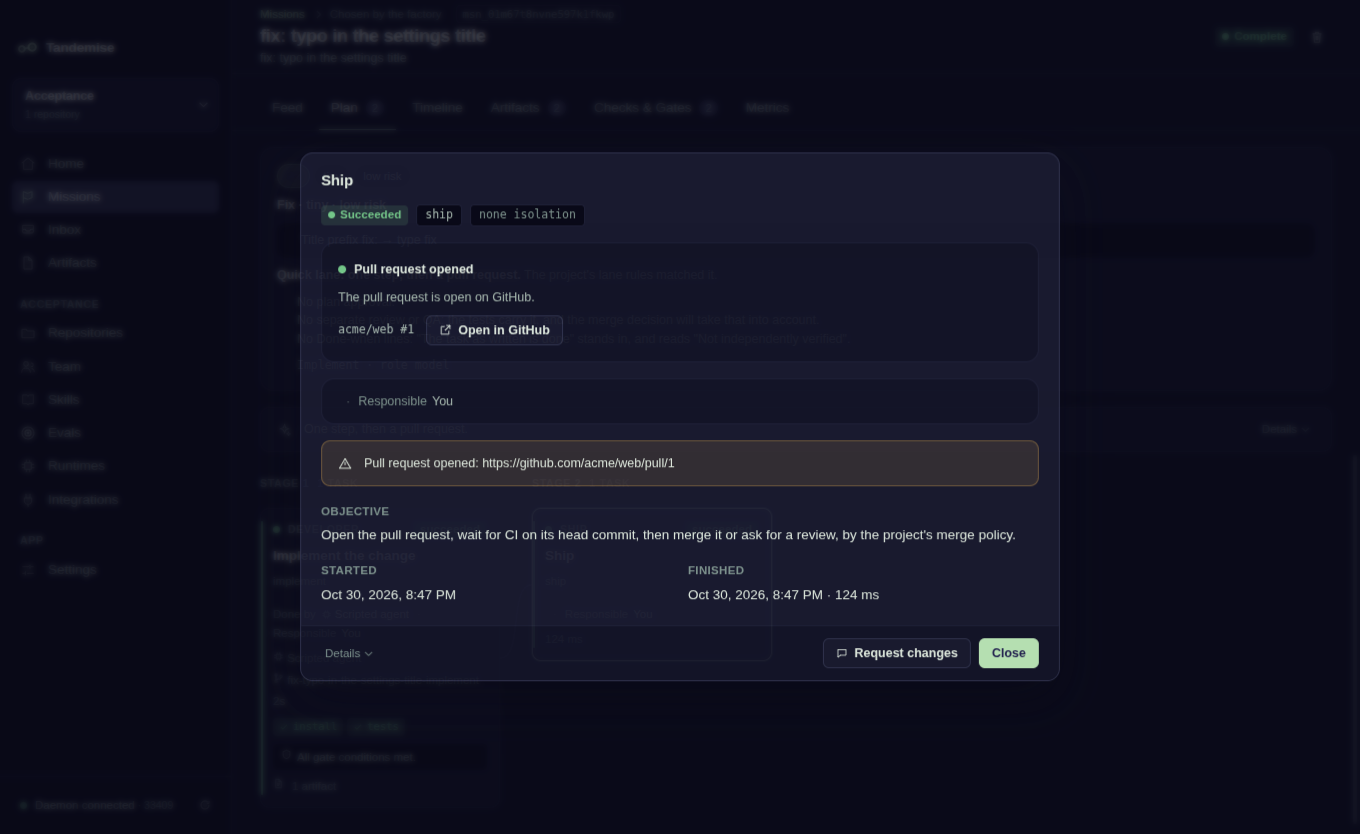
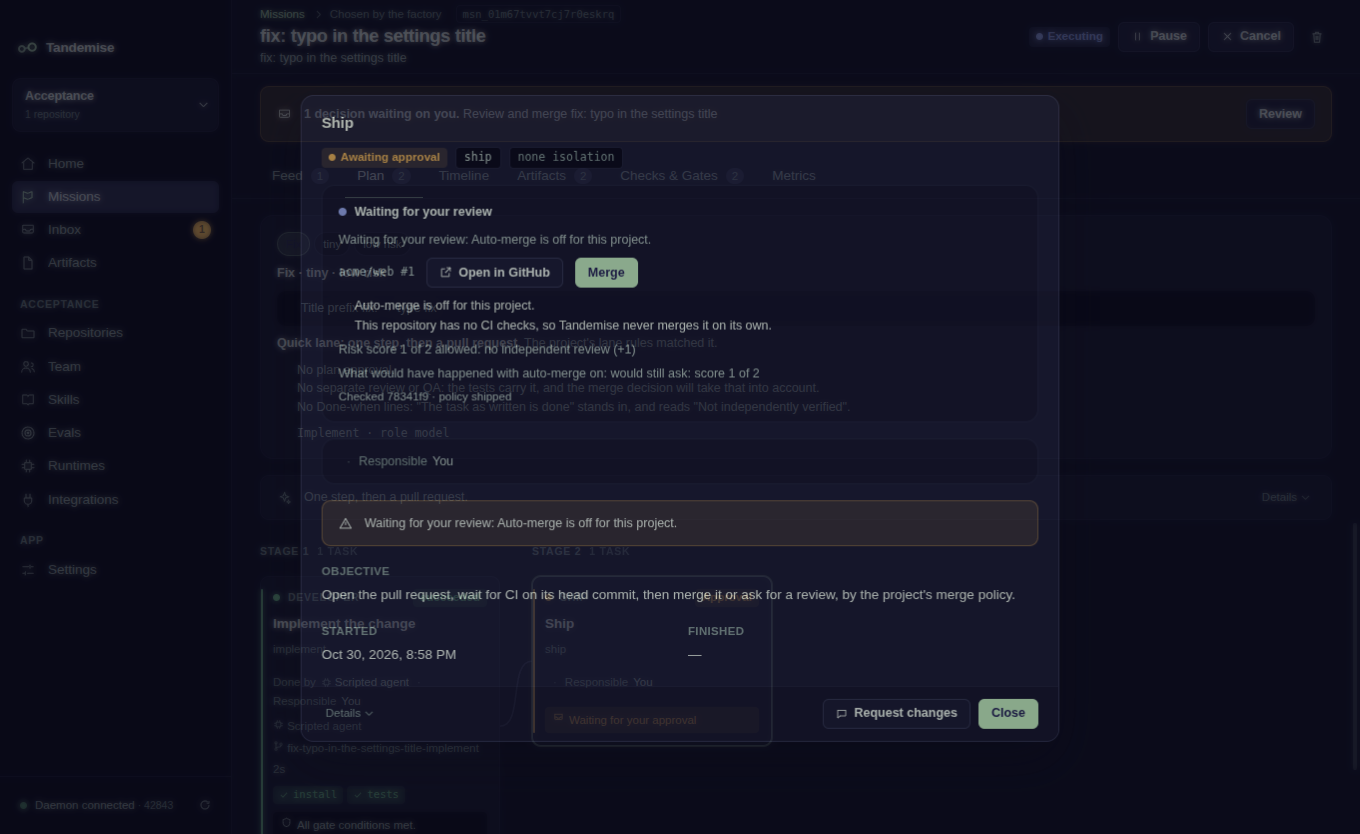
feat: a ship card that shows the merge decision and asks for review
## What and why
GET /v1/missions/:id/ship now carries each pull request's latest decision
in words (#53 §10): the reasons it asks, the score and the lines that
counted, what would have happened with auto-merge on, the policy ref and the
pending card. The ship card shows Waiting for CI, then Waiting for your
review with the reasons, Open in GitHub and Merge (which answers the Review
and merge card). Acceptance PM2 and PM5 join the planner suite.

## How it was verified
Acceptance PM1, PM2, PM5 in the real app (3/3); planner, merge and routing
checks; check:boundaries, check:design, desktop typecheck.

diff --git a/packages/application/src/services/factory-service.ts b/packages/application/src/services/factory-service.ts
@@ -3,10 +3,10 @@ import type {
   ShipPullRequestView, ShipView,
 } from '@tandemise/api-contract';
 import {
-  bucketWords, chooseRung, isTerminalMissionStatus, laneBecauseSentence, laneLine, moduleSentence, profileChips, profileLine, routeReasonWords,
+  AUTO_MERGE_OFF, wouldHaveLine, bucketWords, chooseRung, isTerminalMissionStatus, laneBecauseSentence, laneLine, moduleSentence, profileChips, profileLine, routeReasonWords,
   signalSentence, stepClassWords, stepLine, tiebreakSentence, STEP_CLASSES,
   type BucketModelStats, type EventRepositoryPort, type OutcomeStats, type RoutingConfig, type StepClass, type MissionRepositoryPort, type MissionTask, type PlanDecision, type PlanDecisionRepositoryPort,
-  type ProfileSignal, type TaskRepositoryPort,
+  type ProfileSignal, type TaskRepositoryPort, type ApprovalRepositoryPort, type MergeDecisionRepositoryPort,
 } from '@tandemise/domain';
 import { TandemiseError, type MissionId, type WorkspaceId } from '@tandemise/shared';
 import { FACTORY_FILES, type FactoryConfigSourcePort, type FactoryFileName } from '../ports.js';
@@ -28,6 +28,8 @@ export interface FactoryServiceDeps {
   readonly events: Pick<EventRepositoryPort, 'listByMission'>;
   readonly recorder: EventRecorder;
   /** Where "Write the defaults" writes the factory files. */
+  readonly approvals: Pick<ApprovalRepositoryPort, 'list'>;
+  readonly mergeDecisions: MergeDecisionRepositoryPort;
   readonly factorySource: Pick<FactoryConfigSourcePort, 'write'>;
 }
 
@@ -175,7 +177,27 @@ export class FactoryService {
     for (const event of this.deps.events.listByMission(missionId, { semanticOnly: true })) {
       if (event.body.type !== 'ship.pr_opened') continue;
       const { repo, number, url } = event.body;
-      opened.set(`${repo}#${number}`, { repo, number, url, state: 'opened' });
+      opened.set(`${repo}#${number}`, { repo, number, url, state: 'opened', decision: null });
+    }
+    const pending = this.deps.approvals.list({ missionId, statuses: ['PENDING'] }).filter((a) => a.taskId === ship?.id);
+    for (const [key, pr] of opened) {
+      const d = this.deps.mergeDecisions.latestFor(missionId, pr.repo);
+      if (d === undefined || d.prNumber !== pr.number) continue;
+      const card = pending.find((a) => a.evidence.some((e) => e.label === 'Decision' && e.value === d.id));
+      opened.set(key, {
+        ...pr,
+        decision: {
+          id: d.id, verdict: d.verdict, headSha: d.headSha,
+          scoreLine: `Risk score ${d.score} of ${d.allowed ?? 0} allowed`,
+          reasons: d.reasons,
+          factors: d.factors.filter((f) => f.kind === 'score' && f.matched).map((f) => `${f.why ?? f.rule} (+${f.points})`),
+          wouldHave: d.reasons.includes(AUTO_MERGE_OFF) ? wouldHaveLine(d) : null,
+          policyRef: d.policyRef,
+          cardId: card?.id ?? null,
+          mergedBy: d.mergedBy, mergeSha: d.mergeSha,
+          canRevert: d.mergeSha !== null,
+        },
+      });
     }
     const prs = [...opened.values()];
     return { missionId, taskId: ship?.id ?? null, prs, ...shipStage(ship, prs.length) };
@@ -184,10 +206,18 @@ export class FactoryService {
 
 function shipStage(ship: MissionTask | undefined, prs: number): Pick<ShipView, 'stage' | 'headline' | 'status'> {
   if (ship === undefined) return { stage: 'none', headline: 'No pull request', status: 'This mission has no ship step.' };
-  if (prs > 0 && ship.status !== 'RUNNING') {
+  if (ship.status === 'SUCCEEDED' && (ship.statusReason ?? '').startsWith('Merged')) {
+    return { stage: 'merged', headline: (ship.statusReason ?? '').startsWith('Merged on its own') ? 'Merged on its own' : 'Merged', status: ship.statusReason ?? 'Merged.' };
+  }
+  if (prs > 0 && !['RUNNING', 'AWAITING_EXTERNAL', 'AWAITING_APPROVAL', 'BLOCKED'].includes(ship.status)) {
     return { stage: 'opened', headline: 'Pull request opened', status: prs === 1 ? 'The pull request is open on GitHub.' : `${prs} pull requests are open on GitHub.` };
   }
   switch (ship.status) {
+    case 'AWAITING_EXTERNAL':
+      if ((ship.statusReason ?? '').startsWith('Waiting for CI')) return { stage: 'ci', headline: ship.statusReason!, status: 'The pull request is open; Tandemise decides once CI is green on its head commit.' };
+      return { stage: 'review', headline: ship.statusReason ?? 'Waiting for you to merge it in GitHub.', status: 'Tandemise finishes when GitHub says it merged.' };
+    case 'AWAITING_APPROVAL':
+      return { stage: 'review', headline: 'Waiting for your review', status: ship.statusReason ?? 'The merge policy asks for a review.' };
     case 'RUNNING':
       return { stage: 'opening', headline: 'Opening the pull request', status: ship.statusReason ?? 'Opening the pull request.' };
     case 'SUCCEEDED':

diff --git a/apps/desktop/src/renderer/src/components/ShipCard.tsx b/apps/desktop/src/renderer/src/components/ShipCard.tsx
@@ -1,11 +1,13 @@
-import { useShip } from '../lib/queries.js';
+import type { ShipPullRequestView } from '@tandemise/api-contract';
+import { useDaemonMutation, useShip } from '../lib/queries.js';
 import { Icon } from './Icon.js';
 import { ErrorState } from './primitives.js';
 import './ShipCard.css';
 
 /**
- * The ship step (#53 §10), part 1: "Opening the pull request", then "Pull
- * request opened" with a way to it. The headline and status are the daemon's.
+ * The ship step (#53 §10): opening the pull request, waiting for CI, then
+ * either "Waiting for your review" with the reasons and Merge, or merged.
+ * Every headline, reason and line is the daemon's.
  */
 export function ShipCard({ missionId }: { missionId: string }): JSX.Element | null {
   const ship = useShip(missionId);
@@ -19,15 +21,43 @@ export function ShipCard({ missionId }: { missionId: string }): JSX.Element | nu
         <span className="ship__headline">{view.headline}</span>
       </div>
       <p className="ship__status">{view.status}</p>
-      {view.prs.map((pr) => (
-        <div key={`${pr.repo}#${pr.number}`} className="ship__pr">
-          <span className="ship__ref">{pr.repo} #{pr.number}</span>
-          <button type="button" className="btn" title={pr.url} onClick={() => void window.tandemise.openExternal(pr.url)}>
-            <Icon name="externalLink" size={13} />
-            Open in GitHub
-          </button>
-        </div>
-      ))}
+      {view.prs.map((pr) => <ShipPullRequest key={`${pr.repo}#${pr.number}`} missionId={missionId} pr={pr} />)}
     </section>
+  );
+}
+
+function ShipPullRequest({ missionId, pr }: { missionId: string; pr: ShipPullRequestView }): JSX.Element {
+  const merge = useDaemonMutation((daemon, cardId: string) => daemon.decideApproval(cardId, { optionId: 'approve' }), ['ship', 'approvals', 'tasks'], missionId);
+  const decision = pr.decision;
+  return (
+    <div className="ship__pr">
+      <div className="ship__row">
+        <span className="ship__ref">{pr.repo} #{pr.number}</span>
+        <button type="button" className="btn" title={pr.url} onClick={() => void window.tandemise.openExternal(pr.url)}>
+          <Icon name="externalLink" size={13} />
+          Open in GitHub
+        </button>
+        {decision?.cardId != null ? (
+          <button type="button" className="btn btn--primary" disabled={merge.isPending} onClick={() => merge.mutate(decision.cardId!)}>
+            Merge
+          </button>
+        ) : null}
+      </div>
+      {decision === null ? null : (
+        <div className="ship__decision" data-verdict={decision.verdict}>
+          {decision.reasons.length > 0 ? (
+            <ul className="ship__reasons">
+              {decision.reasons.map((r) => <li key={r}>{r}</li>)}
+            </ul>
+          ) : null}
+          <p className="ship__score">{decision.scoreLine}{decision.factors.length > 0 ? `: ${decision.factors.join(', ')}` : ''}</p>
+          {decision.wouldHave === null ? null : (
+            <p className="ship__would">What would have happened with auto-merge on: {decision.wouldHave}</p>
+          )}
+          <p className="ship__policy">Checked {decision.headSha.slice(0, 7)} · policy {decision.policyRef}</p>
+          {merge.isError ? <p className="ship__error">{(merge.error as Error).message}</p> : null}
+        </div>
+      )}
+    </div>
   );
 }

diff --git a/packages/api-contract/src/factory.ts b/packages/api-contract/src/factory.ts
@@ -59,13 +59,35 @@ export interface PlanDecisionView {
   readonly measured: boolean;
 }
 
-export type ShipStage = 'none' | 'waiting' | 'opening' | 'opened' | 'skipped' | 'blocked' | 'cancelled';
+export type ShipStage = 'none' | 'waiting' | 'opening' | 'opened' | 'ci' | 'review' | 'merged' | 'skipped' | 'blocked' | 'cancelled';
+
+/** The latest merge decision on a pull request, in words (#53 §8.6, §10). */
+export interface ShipDecisionView {
+  readonly id: string;
+  readonly verdict: 'merge' | 'ask';
+  readonly headSha: string;
+  /** "Risk score 1 of 2 allowed". */
+  readonly scoreLine: string;
+  /** Why it asks, in the daemon's words; empty for a merge. */
+  readonly reasons: readonly string[];
+  /** The score lines that counted: "over 100 lines changed (+1)". */
+  readonly factors: readonly string[];
+  /** "would have merged: score 0 of 2" when auto-merge is off; null otherwise. */
+  readonly wouldHave: string | null;
+  readonly policyRef: string;
+  /** The pending Review and merge card, when there is one. */
+  readonly cardId: string | null;
+  readonly mergedBy: string | null;
+  readonly mergeSha: string | null;
+  readonly canRevert: boolean;
+}
 
 export interface ShipPullRequestView {
   readonly repo: string;
   readonly number: number;
   readonly url: string;
   readonly state: 'opening' | 'opened';
+  readonly decision: ShipDecisionView | null;
 }
 
 /** `GET /v1/missions/:id/ship` (part 1: pull requests only). */

diff --git a/apps/desktop/src/renderer/src/components/ShipCard.css b/apps/desktop/src/renderer/src/components/ShipCard.css
@@ -29,6 +29,15 @@
   background: var(--status-succeeded);
 }
 
+.ship[data-stage='ci'] .ship__dot,
+.ship[data-stage='review'] .ship__dot {
+  background: var(--status-running);
+}
+
+.ship[data-stage='merged'] .ship__dot {
+  background: var(--status-succeeded);
+}
+
 .ship[data-stage='blocked'] .ship__dot {
   background: var(--status-failed);
 }
@@ -45,6 +54,12 @@
 
 .ship__pr {
   display: flex;
+  flex-direction: column;
+  gap: var(--s2);
+}
+
+.ship__row {
+  display: flex;
   align-items: center;
   gap: var(--s3);
 }
@@ -53,4 +68,32 @@
   font-family: var(--font-mono);
   font-size: var(--fs-xs);
   color: var(--text-secondary);
+}
+
+.ship__decision {
+  display: flex;
+  flex-direction: column;
+  gap: var(--s1);
+  color: var(--text-secondary);
+}
+
+.ship__reasons {
+  margin: 0;
+  padding-left: var(--s4);
+  color: var(--text);
+}
+
+.ship__score,
+.ship__would,
+.ship__policy,
+.ship__error {
+  margin: 0;
+}
+
+.ship__policy {
+  font-size: var(--fs-xs);
+}
+
+.ship__error {
+  color: var(--status-failed);
 }

diff --git a/packages/application/src/module.ts b/packages/application/src/module.ts
@@ -1041,6 +1041,8 @@ export function createApplicationModule(options: ApplicationModuleOptions = {}):
       planDecisions: r.resolve(t.PLAN_DECISION_REPOSITORY),
       events: r.resolve(t.EVENT_REPOSITORY),
       recorder: r.resolve(t.EVENT_RECORDER),
+      approvals: r.resolve(t.APPROVAL_REPOSITORY),
+      mergeDecisions: r.resolve(t.MERGE_DECISION_REPOSITORY),
       factorySource: r.resolve(t.FACTORY_CONFIG_SOURCE),
     }), { source: SOURCE });
 

diff --git a/docs/superpowers/evidence/2026-10-30-planner/RULINGS.md b/docs/superpowers/evidence/2026-10-30-planner/RULINGS.md
@@ -119,3 +119,9 @@ spec (`docs/superpowers/specs/2026-10-30-planner-and-merge-design.md`).
   author email can't tell them apart). `history.*` facts are filled from the
   fold here rather than in Task 18. Task 13's checks were written after the
   ship-step code, so there was no red run for them.
+- Ruling (Task 14): PM2 asserts "would have merged: score 1 of 2", not the
+  spec's "0 of 2": under the shipped policy a quick-lane change has no independent
+  review, which scores 1 (`review.independent != PASS`). The fake gh gains
+  `defaultChecks` per repository so an acceptance run can make CI green on every
+  commit. The PM2 and PM5 scenarios were written after the code they test, so
+  there was no red run for them.
